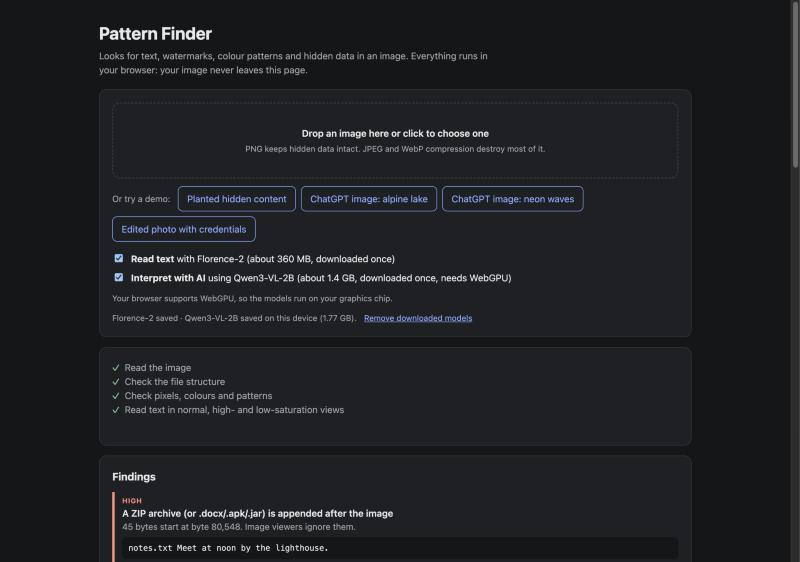
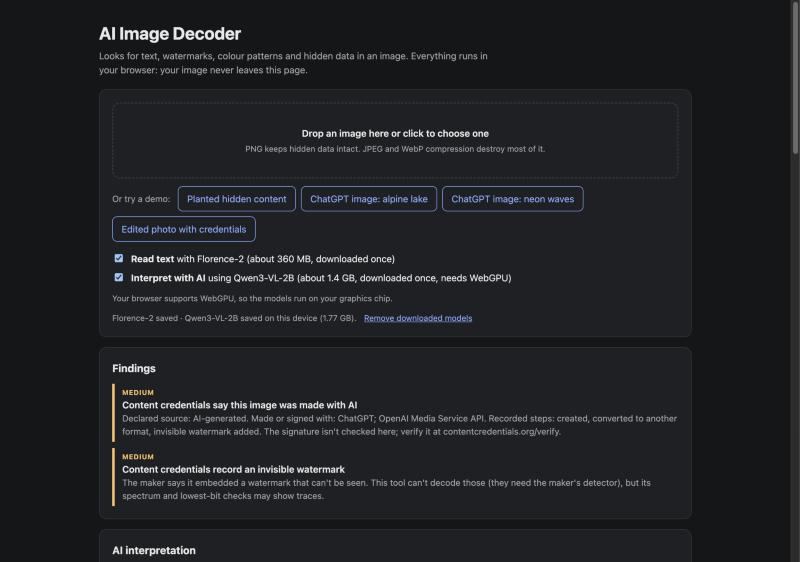
Rename to AI Image Decoder; README demos use the two ChatGPT images
Screenshots now show the app analysing the alpine lake and neon waves
images: their C2PA credentials, the AI interpretation, and the high- and
low-saturation views.

Changed region(s): [[0.125, 0.6352, 0.8438, 1.0], [0.125, 0.0302, 0.3125, 0.0907], [0.9688, 0.2722, 1.0, 0.3025]]

diff --git a/index.html b/index.html
@@ -3,13 +3,13 @@
 <head>
   <meta charset="utf-8" />
   <meta name="viewport" content="width=device-width, initial-scale=1" />
-  <title>Pattern Finder</title>
+  <title>AI Image Decoder</title>
   <link rel="stylesheet" href="style.css" />
 </head>
 <body>
   <main>
     <header>
-      <h1>Pattern Finder</h1>
+      <h1>AI Image Decoder</h1>
       <p class="sub">
         Looks for text, watermarks, colour patterns and hidden data in an image.
         Everything runs in your browser: your image never leaves this page.

diff --git a/app.js b/app.js
@@ -39,7 +39,7 @@ function call(cmd, args = {}) {
 // Model storage: remember which files each model needs, so we can tell
 // whether it is fully stored on this device.
 
-const manifestKey = (m) => `pf-manifest-${m}`;
+const manifestKey = (m) => `aid-manifest-${m}`;
 const fileUrls = { florence: new Set(), qwen: new Set() };
 const readManifest = (m) => {
   try { return JSON.parse(localStorage.getItem(manifestKey(m)) ?? "[]"); } catch { return []; }

diff --git a/lib/sample.js b/lib/sample.js
@@ -31,7 +31,7 @@ export function makeSample() {
   ctx.font = "bold 72px sans-serif";
   ctx.fillText("Harbour at dawn", 120, 180);
   ctx.font = "32px sans-serif";
-  ctx.fillText("Photo: sample image for Pattern Finder", 1240, 1040);
+  ctx.fillText("Photo: sample image for AI Image Decoder", 1240, 1040);
 
   // Faint repeated watermark (2% opacity).
   ctx.save();

diff --git a/.github/README.md b/.github/README.md
@@ -1,33 +1,53 @@
-# Pattern Finder
+# AI Image Decoder
 
 Find text, watermarks, colour patterns and hidden data in an image, with AI models that run entirely in your browser. No server, no API key, and your image never leaves the page.
 
-**[▶ Try the live demo on Hugging Face Spaces](https://huggingface.co/spaces/GHeart01/pattern-finder)**
+**[▶ Try the live demo on Hugging Face Spaces](https://huggingface.co/spaces/GHeart01/ai-image-decoder)**
 
-![Pattern Finder's start screen: drop zone, four demo buttons and the model options](screenshot.jpg)
+![AI Image Decoder after analysing the neon waves image: content credentials say it was made with AI and record an invisible watermark](screenshot.jpg)
 
-## Real demo results
+## Real demo: two ChatGPT images
 
-The app ships with four demo images, one click each. These are the actual results from the app; nothing below is staged.
+These two images were generated with ChatGPT. Both are one-click demos in the app, and everything below is the app's actual output.
 
-| Demo | What Pattern Finder found |
-|---|---|
-| **ChatGPT image: alpine lake** | Its C2PA content credentials say it is **AI-generated**, made with **ChatGPT / OpenAI Media Service API**, and record that OpenAI **added an invisible watermark**. No visible text, no hidden data. |
-| **ChatGPT image: neon waves** | The same AI-generation credentials and invisible-watermark record. No hidden data in the pixels. |
-| **Edited photo with credentials** | A real ribbons photo whose credentials record it being opened and colour-adjusted. The frequency check picks up the ribbons' ribbed texture as a repeating pattern. |
-| **Planted hidden content** | Everything planted is found: a ZIP file attached after the image, a sentence hidden in the pixels' lowest bits, a PNG comment, a 4%-opacity "PROOF" watermark repeated across the image, and colour-camouflaged "MEET AT NOON" text. |
+<p>
+  <img src="../demo/alpine-lake-chatgpt.png" width="49%" alt="ChatGPT-generated alpine lake at sunset">
+  <img src="../demo/neon-waves-chatgpt.png" width="49%" alt="ChatGPT-generated neon indigo contour waves">
+</p>
 
-### ChatGPT image: what the file says, and what the AI makes of it
+| | Alpine lake | Neon waves |
+|---|---|---|
+| **Content credentials (C2PA)** | AI-generated, made with ChatGPT / OpenAI Media Service API | Same |
+| **Recorded steps** | Created, converted to another format, invisible watermark added | Same |
+| **Visible text** | None | None |
+| **Hidden data in the pixels or file** | None | None |
 
-![Findings for the ChatGPT alpine lake image: content credentials say it was made with AI and record an invisible watermark, followed by Qwen3-VL-2B's interpretation](demo-alpine-findings.jpg)
+### Alpine lake: findings and AI interpretation
 
-### Planted hidden content: findings
+The file checks read the credentials; Qwen3-VL-2B then describes the scene and explains what the credentials mean.
 
-![Findings for the planted sample: appended ZIP, text hidden in the lowest bits, repeated PROOF watermark, PNG comment and a frequency pattern](demo-sample-findings.jpg)
+![Findings for the alpine lake image followed by Qwen3-VL-2B's interpretation](alpine-findings.jpg)
 
-### The high-saturation view exposes faint and colour-camouflaged marks
+### Alpine lake: high-saturation view
 
-![High-saturation view of the planted sample, with the faint PROOF watermark and the MEET AT NOON text clearly visible and boxed by OCR](demo-sample-views.jpg)
+Exaggerating colour differences is how the app exposes marks that blend into the image. Here it makes the small faint logo in the top-right corner easier to see.
+
+![High-saturation view of the alpine lake image](alpine-high-saturation.jpg)
+
+### Neon waves: findings and AI interpretation
+
+![Findings for the neon waves image followed by Qwen3-VL-2B's interpretation](neon-findings.jpg)
+
+### Neon waves: low-saturation view
+
+Removing colour and equalising brightness shows the structure of the line field, and any faint mark that differs only in shade.
+
+![Low-saturation view of the neon waves image](neon-low-saturation.jpg)
+
+### More demos in the app
+
+- **Edited photo with credentials:** a real photo whose credentials record it being opened and colour-adjusted.
+- **Planted hidden content:** a generated test image. The app finds everything planted: a ZIP file attached after the image, a sentence hidden in the pixels' lowest bits, a PNG comment, a 4%-opacity "PROOF" watermark, and colour-camouflaged text.
 
 ## What it checks
 
@@ -49,8 +69,8 @@ The pixel and file checks finish in about a second. With the models stored, a fu
 Run it locally with any static file server. You need one because browsers block ES modules on `file://` pages.
 
 ```bash
-git clone https://github.com/GHeart01/pattern-finder.git
-cd pattern-finder
+git clone https://github.com/GHeart01/ai-image-decoder.git
+cd ai-image-decoder
 python3 -m http.server 8000
 ```
 
@@ -83,10 +103,10 @@ npm test
 The app is a free **static** [Hugging Face Space](https://huggingface.co/docs/hub/spaces). With the [`hf` CLI](https://huggingface.co/docs/huggingface_hub/guides/cli) logged in (`hf auth login`), run this from the repo folder, replacing `<username>`:
 
 ```bash
-hf repos create <username>/pattern-finder --type space --sdk static
+hf repos create <username>/ai-image-decoder --type space --sdk static
 ```
 ```bash
-hf upload <username>/pattern-finder . --type space --exclude ".git/*" --exclude ".github/*" --exclude "tests/node_modules/*"
+hf upload <username>/ai-image-decoder . --type space --exclude ".git/*" --exclude ".github/*" --exclude "tests/node_modules/*"
 ```
 
 The root [`README.md`](../README.md) holds the Space's settings in its front matter, so keep that file. This page lives in `.github/README.md` so that GitHub shows it instead. Any other static host works too.
@@ -96,7 +116,7 @@ The root [`README.md`](../README.md) holds the Space's settings in its front mat
 - **Lossy files:** JPEG and WebP compression rewrite the lowest bits, so hidden-bit results on those formats are weak evidence.
 - **Invisible model watermarks** (OpenAI's, SynthID, Stable Diffusion's DWT-DCT mark) can't be decoded; they need the maker's detector. The app reports when content credentials *say* one was added.
 - **Content credentials aren't verified.** The app reads what the manifest claims; check the signature at [contentcredentials.org/verify](https://contentcredentials.org/verify).
-- **Small logos:** there's no trained logo or watermark detector. Watermarks are inferred from repeated text, text that appears only after enhancement, and the AI's reading. The small faint logo in the alpine lake image's top-right corner isn't picked up.
+- **Small logos:** there's no trained logo or watermark detector. Watermarks are inferred from repeated text, text that appears only after enhancement, and the AI's reading. The small faint logo in the alpine lake image's top-right corner isn't flagged as a finding, though the high-saturation view shows it.
 - **The AI interpretation can be wrong.** Qwen3-VL-2B is small: in testing it sometimes named colours wrong or left a finding out of its summary. The raw findings always appear above it.
 - **Tested in Chrome on Apple Silicon.** The no-WebGPU path, Safari and 16-bit PNGs haven't been tested.
 

diff --git a/README.md b/README.md
@@ -1,5 +1,5 @@
 ---
-title: Pattern Finder
+title: AI Image Decoder
 emoji: 🔍
 colorFrom: indigo
 colorTo: yellow
@@ -12,7 +12,7 @@ models:
   - onnx-community/Qwen3-VL-2B-Instruct-ONNX
 ---
 
-# Pattern Finder
+# AI Image Decoder
 
 Looks for text, watermarks, colour patterns and hidden data in an image.
 Everything runs in the visitor's browser with
@@ -47,7 +47,7 @@ Four one-click demos: two ChatGPT images whose credentials declare them
 AI-generated and watermarked, a real photo with an edit history, and a sample
 with planted hidden content. See [`demo/README.md`](demo/README.md).
 
-Source and screenshots: [github.com/GHeart01/pattern-finder](https://github.com/GHeart01/pattern-finder)
+Source and screenshots: [github.com/GHeart01/ai-image-decoder](https://github.com/GHeart01/ai-image-decoder)
 
 ## Limits
 
